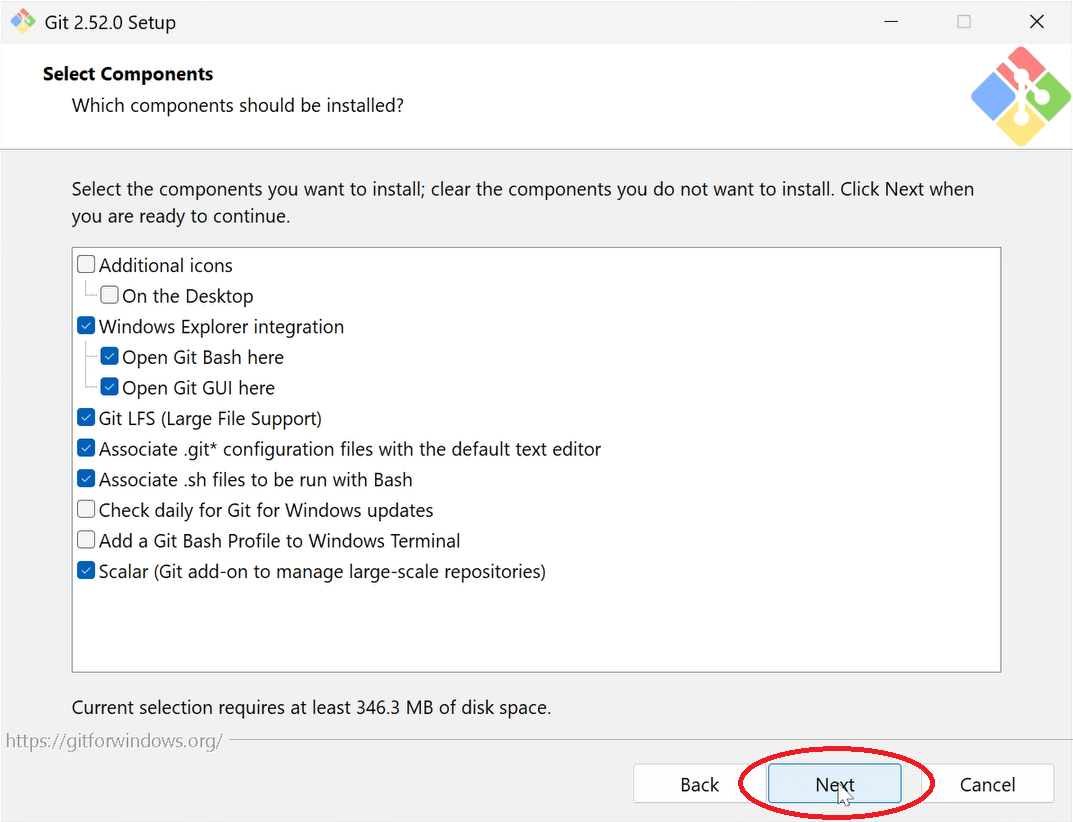
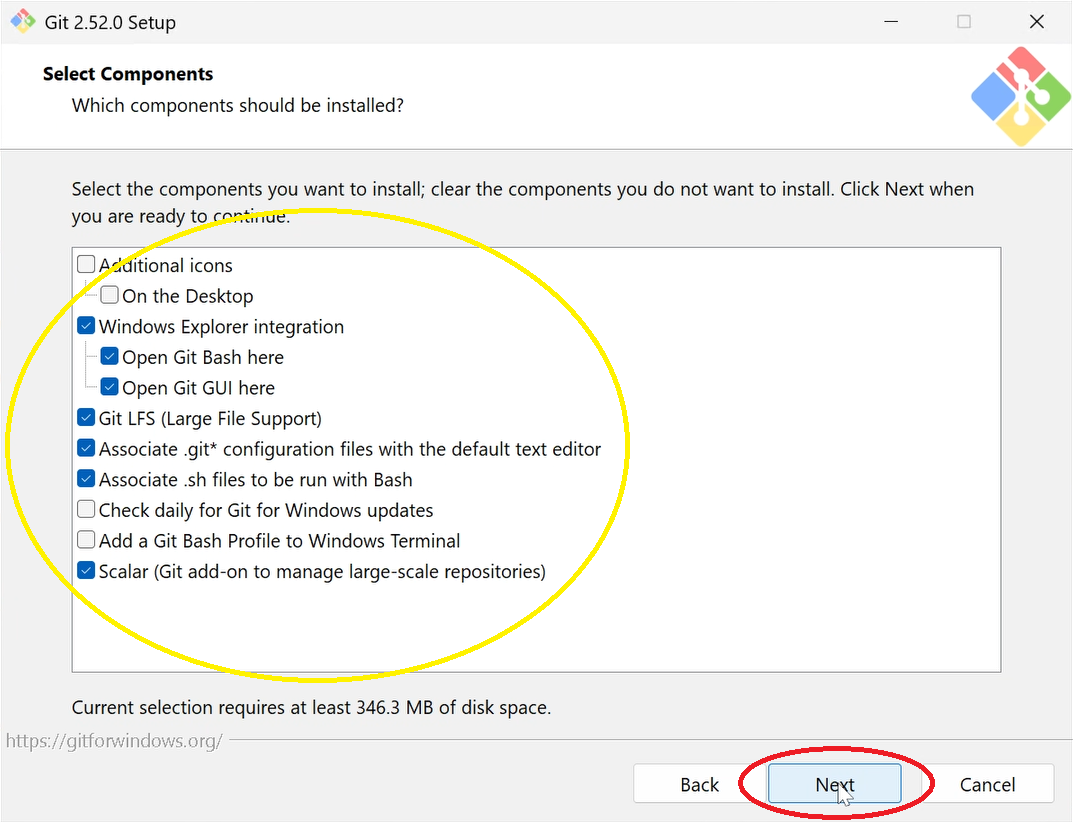
Tutorial

diff --git a/tsmaps/tutorials/text/Main/Ξ QuickStart-ForkDemo_Publish_Pages/notes.md b/tsmaps/tutorials/text/Main/Ξ QuickStart-ForkDemo_Publish_Pages/notes.md
@@ -36,6 +36,10 @@ Make sure all major maps and ancillaries have a starting header that indicates w
 
 Don't forget to explain how to do Custom Domain for GitHub Pages
 
+The map needs to make clear these are the instructions for Windows 11 running on a pc. For Mac or otherwise we don't have access to these machines but if you would like to contribute instructions please drop us a line @ team@etc
+
+mention adding a spell checker to vscode markdown files: https://chat.deepseek.com/share/pszn6rrugbkcazws0y
+
 ## TODO
  - Configure repo for Pages
  - Make an edit